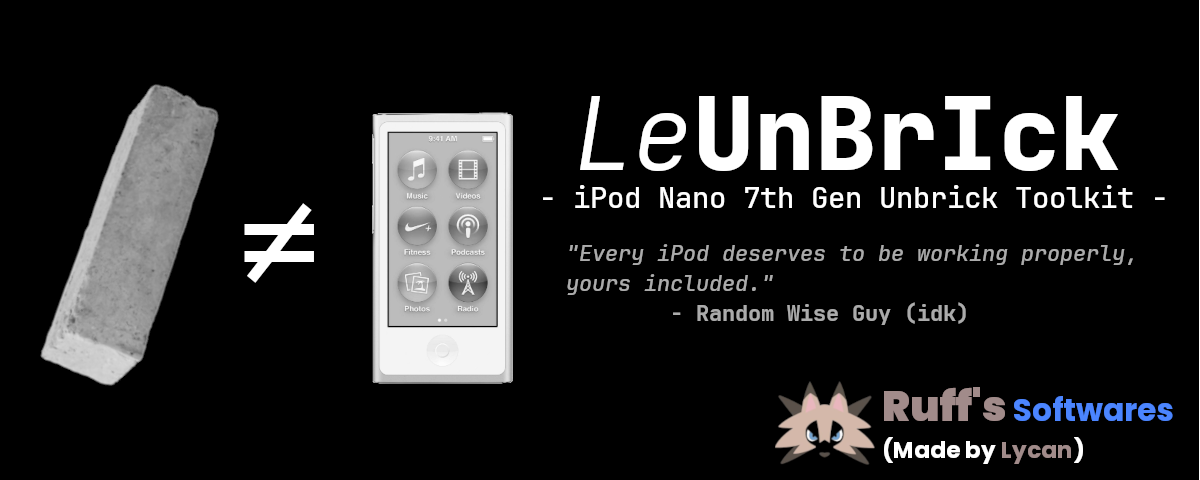
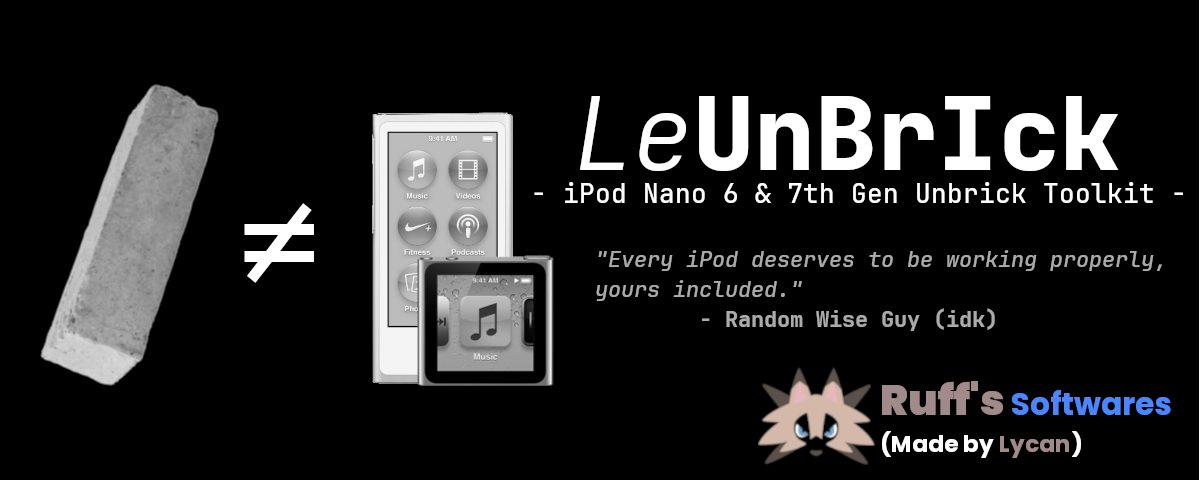
Added Version 1.3.1, Ipod Nano 6G support

Changed region(s): [[0.3392, 0.5, 0.9867, 0.8125], [0.6167, 0.7812, 0.9867, 0.9688], [0.4625, 0.375, 0.9558, 0.4375]]

diff --git a/README.md b/README.md
@@ -4,15 +4,15 @@
 
 # 🎧 LeUnBrIck
 
-> ⚡ Universal Unbricker & Flasher for iPod Nano 7th Gen (2012 & 2015)
+> ⚡ Universal Unbricker & Flasher for iPod Nano 6th & 7th Gen (2012 & 2015)
 
-`LeUnBrIck.sh` is an all-in-one toolkit for **restoring bricked iPod Nano 7G devices** using DFU/WTF mode. It supports both the 2012 and 2015 hardware revisions and provides options to flash using **wInd3x** or the **ipodscsi** tool.
+`LeUnBrIck` is an all-in-one toolkit for **restoring bricked iPod Nano 6G / 7G devices** using DFU/WTF mode. It supports both the 2012 and 2015 hardware revisions and provides options to flash using **wInd3x** or the **ipodscsi** tool.
 
 ---
 
 ## 🔧 Features
 
-- ✅ Restore iPod Nano 7G (2012 & 2015)
+- ✅ Restore iPod Nano 6G and 7G (2012 & 2015)
 - ⚡ Flash WTF & firmware images safely
 - ☁ Auto-download missing `.MSE` firmware files
 - 🎨 Colorful and clean TUI interface
@@ -50,10 +50,11 @@ chmod +x LeUnBrIck.sh
 
 ### 🧙 Inside the Menu
 
-1. **Choose option 3** to install required packages
+1. **Choose option 4** to install required packages
 2. **Choose option 1** if you have a **2012 iPod Nano 7G**
 3. **Choose option 2** if you have a **2015 iPod Nano 7G**
-4. Follow on-screen instructions to enter DFU mode, WTF mode, and complete flashing
+4. **Choose option 3** if you have a **iPod Nano 6G**
+5. Follow on-screen instructions to enter DFU mode, WTF mode, and complete flashing
 
 ---
 
@@ -73,7 +74,7 @@ chmod +x LeUnBrIck.sh
 
 ## 📌 TODO
 
-* [ ] Nano 6G support. (SOON)
+* [x] Nano 6G support. (SOON)
 * [x] Auto-download `.MSE` files from GitHub
 * [x] Upgraded Interface (TUI)
 * [ ] GUI (QT / Tkinter)
